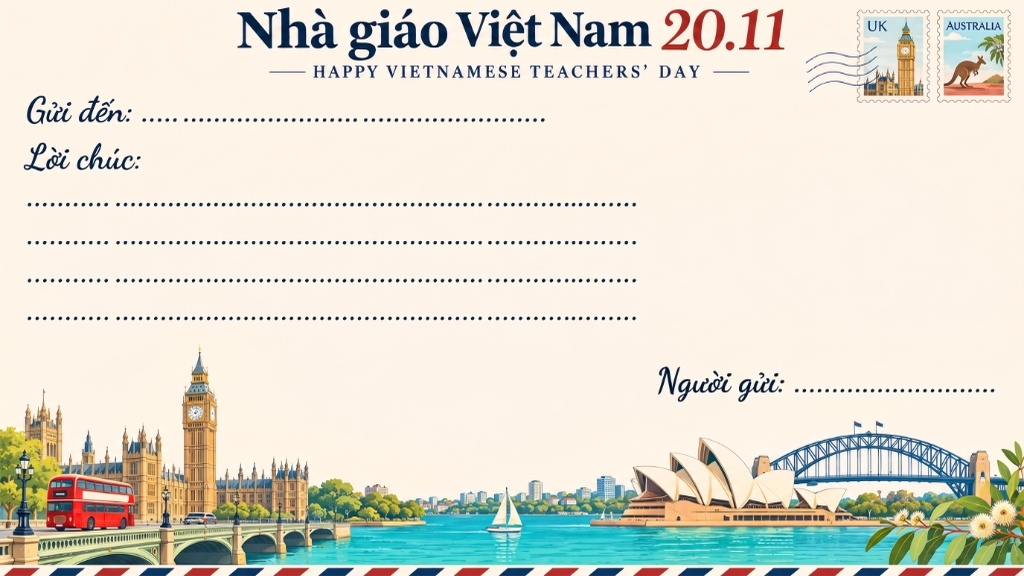
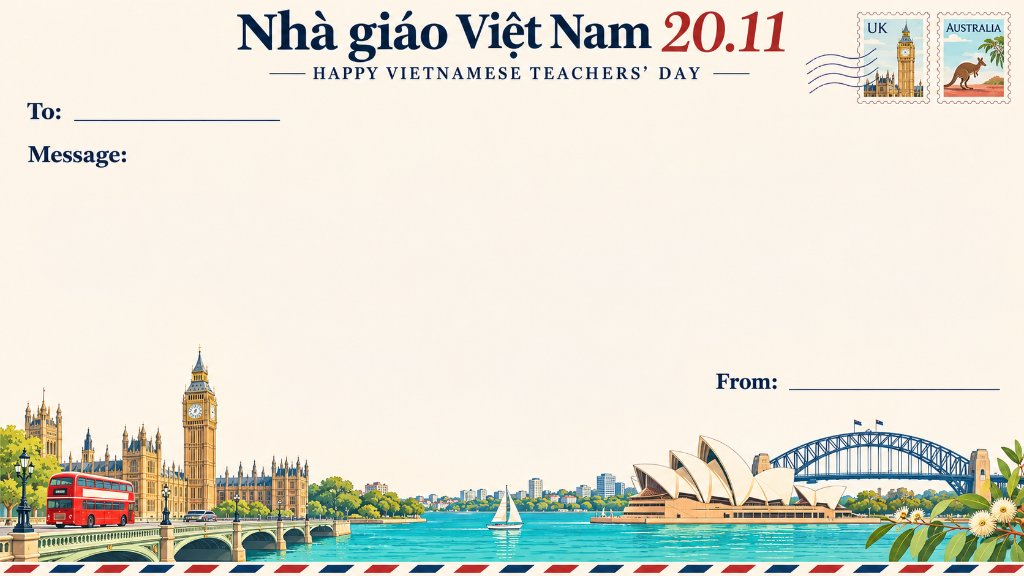
feat(frame): thay the Mau 4 nguyen ban To/Message/From va can chinh render

diff --git a/src/lib/cardRenderer.js b/src/lib/cardRenderer.js
@@ -139,7 +139,7 @@ function loadFrame4Image() {
     img.onerror = () => {
       resolve(null);
     };
-    img.src = '/frames/frame_mau_4.jpg?v=5';
+    img.src = '/frames/frame_mau_4.jpg?v=6';
   });
 }
 
@@ -524,23 +524,23 @@ function drawTemplate3Content(ctx, data) {
 }
 
 /**
- * Vẽ chữ khớp chính xác vào các dòng kẻ chấm của MẪU 4 (Bưu thiếp Quốc tế - UK & Australia)
+ * Vẽ chữ khớp chính xác vào các vị trí của MẪU 4 (Bưu thiếp Quốc tế - To / Message / From)
  * Tự động dịch sang trái nếu tên người gửi dài để không đè và không tràn viền.
  */
 function drawTemplate4Content(ctx, data) {
   ctx.save();
 
-  // 1. Tên Thầy/Cô (Nằm trên dòng chấm sau chữ "Gửi đến:")
+  // 1. Tên Thầy/Cô (Nằm trên dòng kẻ sau chữ "To:")
   let teacherFontSize = 26;
   ctx.textAlign = 'left';
   ctx.font = `bold ${teacherFontSize}px "Times New Roman", Georgia, serif`;
   ctx.fillStyle = '#0F2942'; // Xanh navy đậm phong cách bưu chính quốc tế
   const teacher = data.teacher_name ? data.teacher_name.trim() : 'thầy/cô kính mến';
-  while (ctx.measureText(teacher).width > 400 && teacherFontSize > 13) {
+  while (ctx.measureText(teacher).width > 480 && teacherFontSize > 13) {
     teacherFontSize--;
     ctx.font = `bold ${teacherFontSize}px "Times New Roman", Georgia, serif`;
   }
-  ctx.fillText(teacher, 140, 117);
+  ctx.fillText(teacher, 76, 117);
 
   // 2. Nội dung lời chúc (Đồng nhất cỡ chữ 26px, cùng màu xanh navy #0F2942 với người gửi & gửi đến)
   ctx.fillStyle = '#0F2942';
@@ -550,18 +550,18 @@ function drawTemplate4Content(ctx, data) {
   const defaultMsg = 'Nhân ngày 20/11, em xin kính chúc Thầy/Cô luôn dồi dào sức khỏe, ngập tràn niềm vui và luôn giữ trọn nhiệt huyết trong từng giờ lên lớp!';
   const rawText = data.message ? data.message.trim() : defaultMsg;
 
-  const dottedY = [201, 239, 277, 315];
-  const maxW = 595;
+  const wishY = [205, 245, 285, 325, 365];
+  const maxW = 640;
 
   let lines = wrapText(ctx, rawText, maxW);
-  while (lines.length > dottedY.length && wishFontSize > 15) {
+  while (lines.length > wishY.length && wishFontSize > 15) {
     wishFontSize--;
     ctx.font = `italic ${wishFontSize}px "Times New Roman", Georgia, serif`;
     lines = wrapText(ctx, rawText, maxW);
   }
 
-  for (let i = 0; i < Math.min(lines.length, dottedY.length); i++) {
-    ctx.fillText(lines[i], 35, dottedY[i]);
+  for (let i = 0; i < Math.min(lines.length, wishY.length); i++) {
+    ctx.fillText(lines[i], 32, wishY[i]);
   }
 
   // 3. Người gửi: Tự động dịch chuyển sang trái nếu tên dài để không bị đè và không tràn viền
@@ -573,38 +573,42 @@ function drawTemplate4Content(ctx, data) {
     : (data.sender_name && data.sender_name.trim() ? data.sender_name.trim() : 'Học trò BTEC FPT');
 
   const senderW = ctx.measureText(sender).width;
-  const rightBound = 990;
+  const rightBound = 995;
 
-  if (senderW <= 185) {
-    // Tên ngắn vừa vặn với dòng chấm có sẵn bên phải
-    ctx.fillText(sender, 804, 387);
+  if (senderW <= 205) {
+    // Tên ngắn vừa vặn với dòng kẻ có sẵn bên phải
+    ctx.fillText(sender, 788, 387);
   } else {
-    // Tên dài: dịch cả cụm "Người gửi:" sang trái để có đủ khoảng trống, không tràn viền
-    ctx.font = CARD_LABEL_FONT;
-    const labelW = ctx.measureText('Người gửi:').width;
-    const totalW = labelW + 12 + senderW;
+    // Tên dài: dịch cả cụm "From:" sang trái để có đủ khoảng trống, không tràn viền
+    const fromW = 75;
+    const totalW = fromW + 10 + senderW;
     let labelX = rightBound - totalW;
     if (labelX < 380) {
       labelX = 380;
       // Thu nhỏ cỡ chữ người gửi nếu tên cực dài
-      while (ctx.measureText(sender).width > (rightBound - (labelX + labelW + 12)) && senderFontSize > 13) {
+      while (ctx.measureText(sender).width > (rightBound - (labelX + fromW + 10)) && senderFontSize > 13) {
         senderFontSize--;
         ctx.font = `bold ${senderFontSize}px "Times New Roman", Georgia, serif`;
       }
     }
-    const nameX = labelX + labelW + 12;
+    const nameX = labelX + fromW + 10;
 
-    // Phủ nền kem che phần Người gửi cũ đã in sẵn
+    // Phủ nền kem che phần From cũ đã in sẵn
     ctx.fillStyle = '#FDF3E9';
-    ctx.fillRect(labelX - 8, 366, 1000 - (labelX - 8), 38);
+    ctx.fillRect(labelX - 6, 366, 1005 - (labelX - 6), 36);
 
-    // Vẽ lại nhãn Người gửi: tại vị trí đã dịch
+    // Vẽ lại nhãn From: tại vị trí đã dịch
     ctx.fillStyle = '#0F2942';
-    ctx.font = CARD_LABEL_FONT;
-    ctx.fillText('Người gửi:', labelX, 387);
+    ctx.font = 'bold 24px "Times New Roman", Georgia, serif';
+    ctx.fillText('From:', labelX, 387);
 
-    // Vẽ dòng chấm nối tiếp tới mép phải
-    drawCardDottedLine(ctx, nameX - 2, 390, rightBound, '#788896');
+    // Vẽ dòng kẻ liền nối tiếp tới mép phải
+    ctx.strokeStyle = '#0F2942';
+    ctx.lineWidth = 1.8;
+    ctx.beginPath();
+    ctx.moveTo(nameX - 2, 389);
+    ctx.lineTo(rightBound, 389);
+    ctx.stroke();
 
     // Vẽ tên người gửi
     ctx.font = `bold ${senderFontSize}px "Times New Roman", Georgia, serif`;

diff --git a/src/components/WishForm.jsx b/src/components/WishForm.jsx
@@ -33,7 +33,7 @@ const TEMPLATE_CARDS = [
   {
     id: 'international_uk_au',
     name: 'Mẫu 4',
-    image: '/frames/frame_mau_4.jpg?v=5'
+    image: '/frames/frame_mau_4.jpg?v=6'
   },
   {
     id: 'airmail_global',
